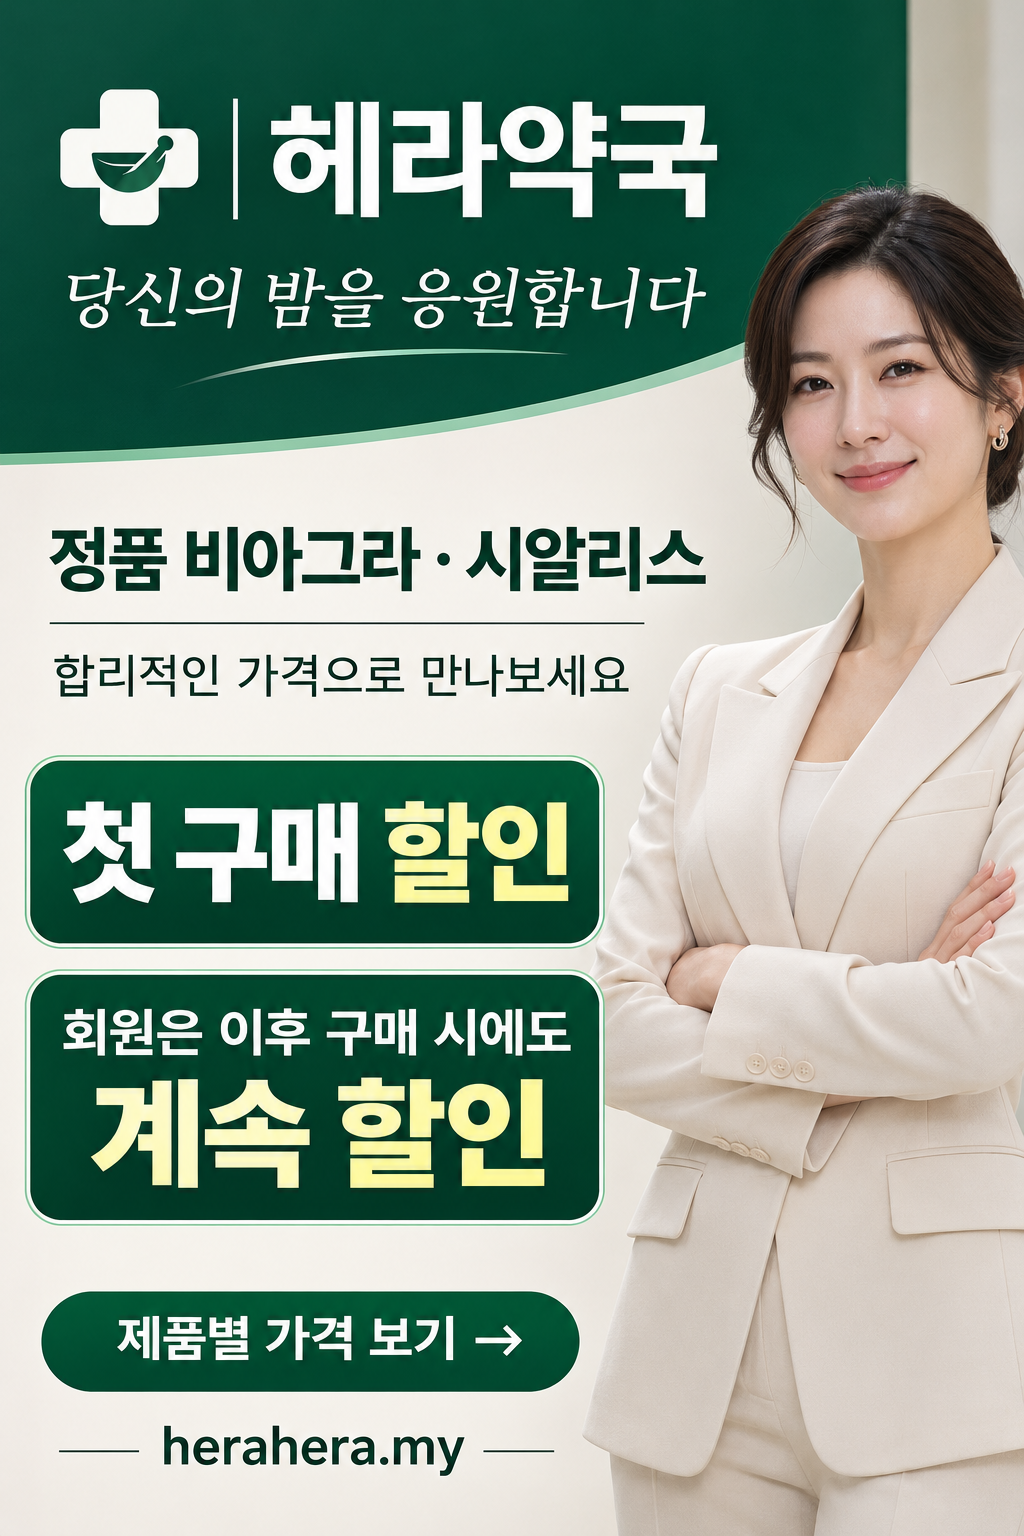
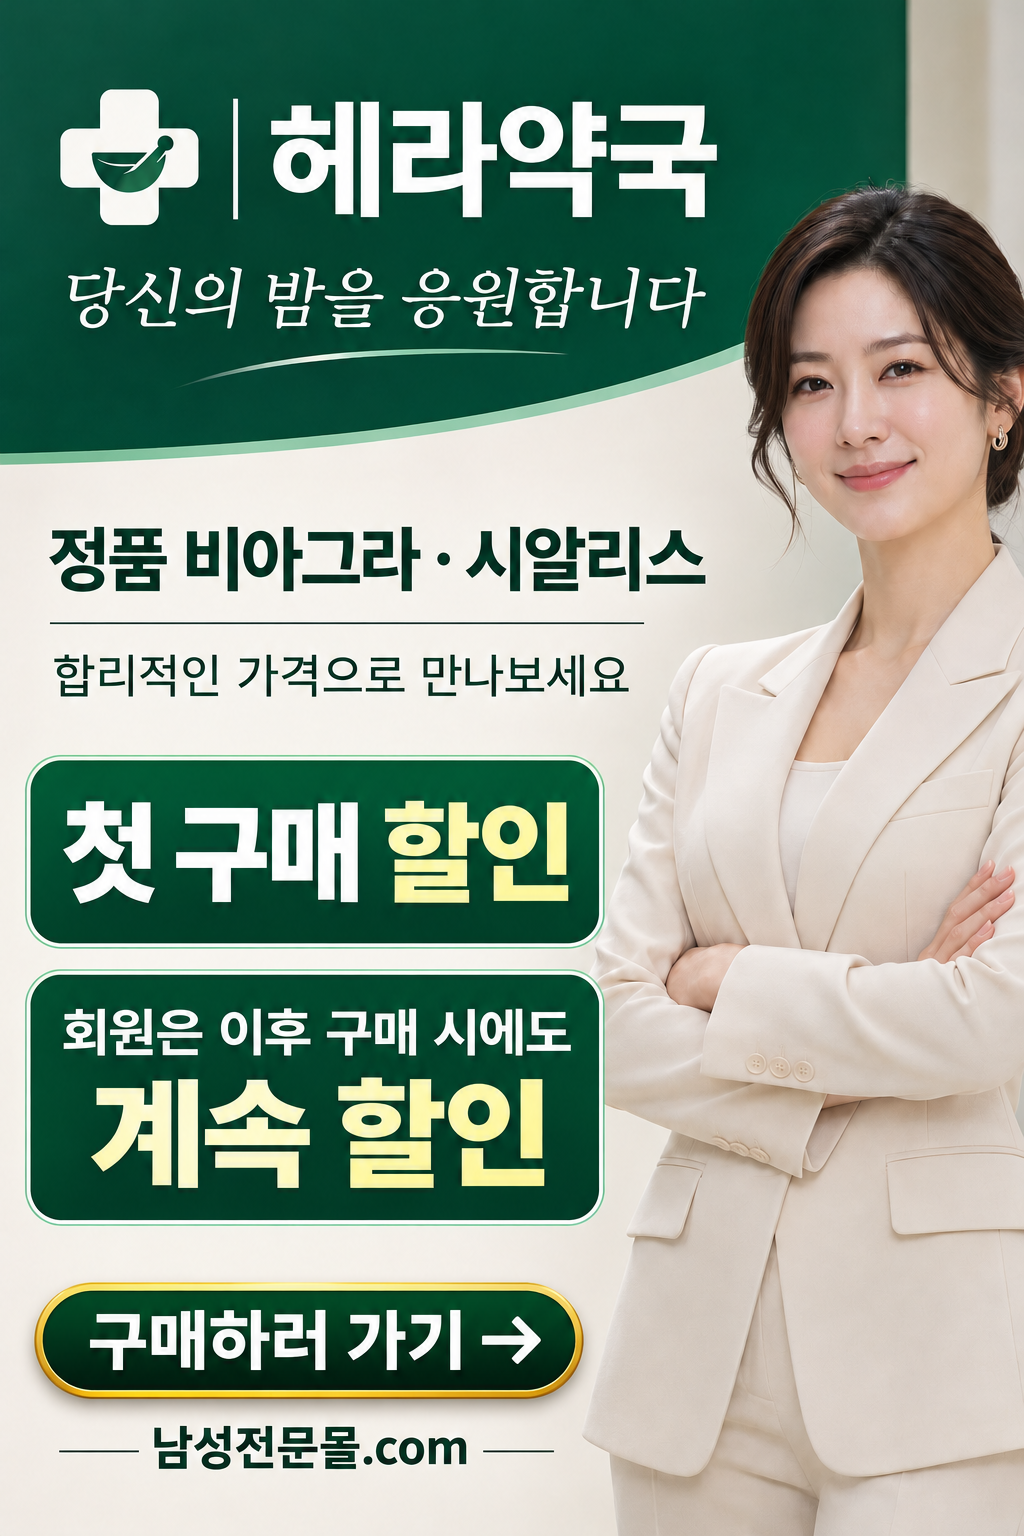
배너 구매 버튼과 이동 주소 변경

diff --git a/index.html b/index.html
@@ -6,11 +6,12 @@
   <title>헤라약국 할인 안내</title>
   <style>
     body { margin: 0; background: #054b38; }
-    a { display: block; max-width: 1024px; margin: auto; }
+    a { display: block; max-width: 1024px; margin: auto; cursor: pointer; }
+    a:focus-visible { outline: 4px solid #f9d87b; outline-offset: -4px; }
     img { display: block; width: 100%; height: auto; }
   </style>
 </head>
 <body>
-  <a href="https://herahera.my/"><img src="banner.png" width="1024" height="1536" alt="헤라약국 첫 구매 할인 및 회원 할인 안내. 클릭하면 헤라약국 홈페이지로 이동합니다."></a>
+  <a href="https://남성전문몰.com/"><img src="banner.png" width="1024" height="1536" alt="헤라약국 첫 구매 할인 및 회원 할인 안내. 구매하러 가기. 남성전문몰.com으로 이동합니다."></a>
 </body>
 </html>
